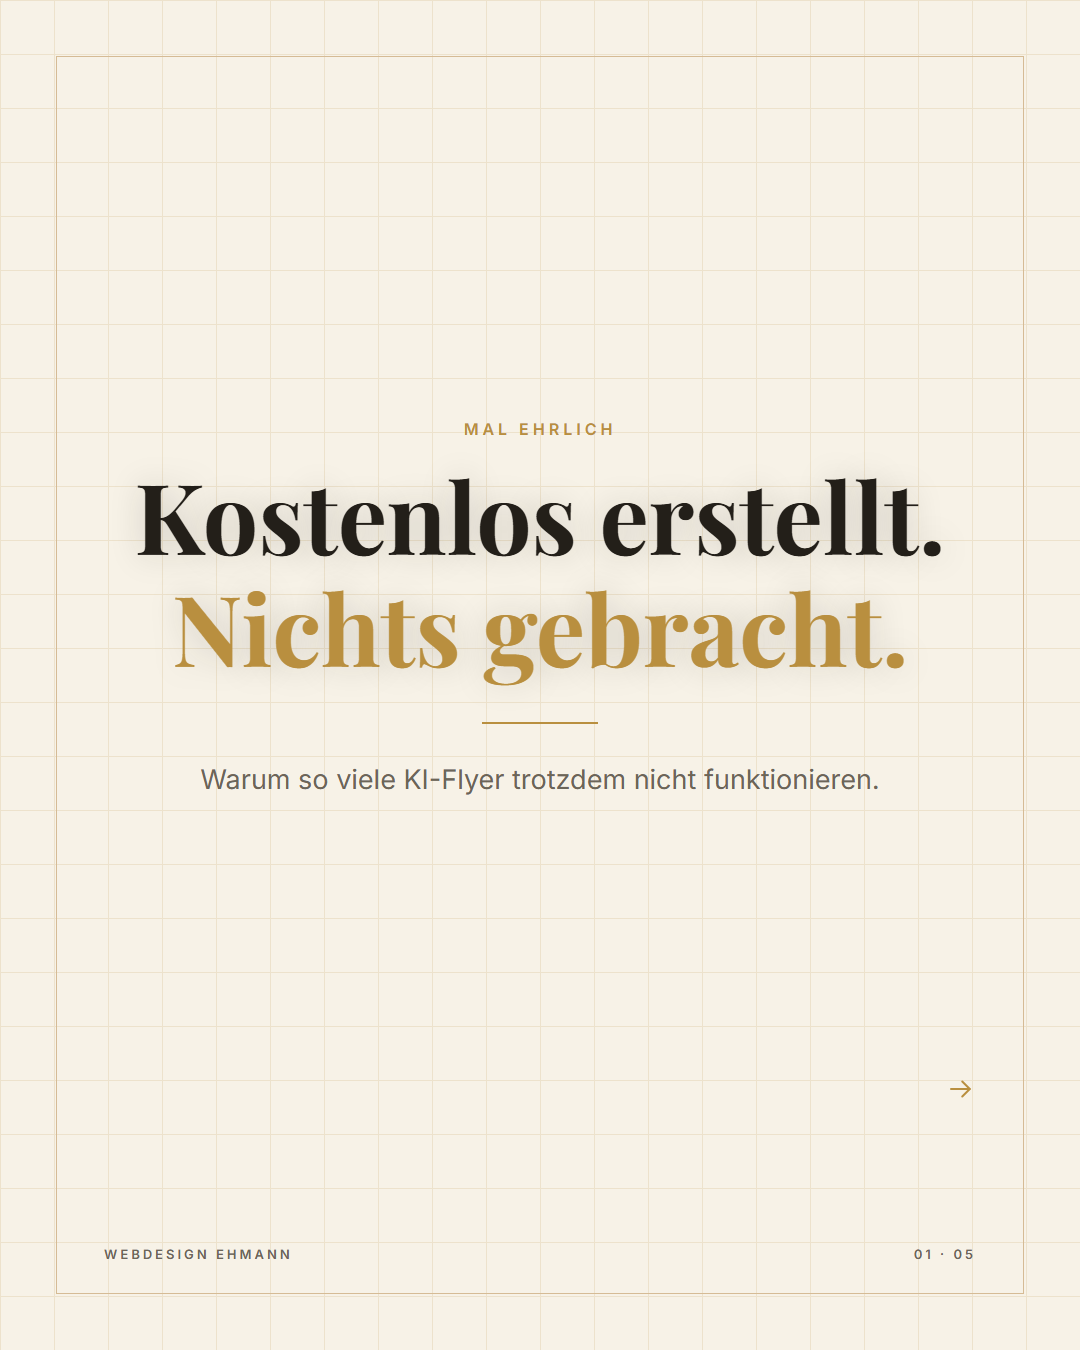
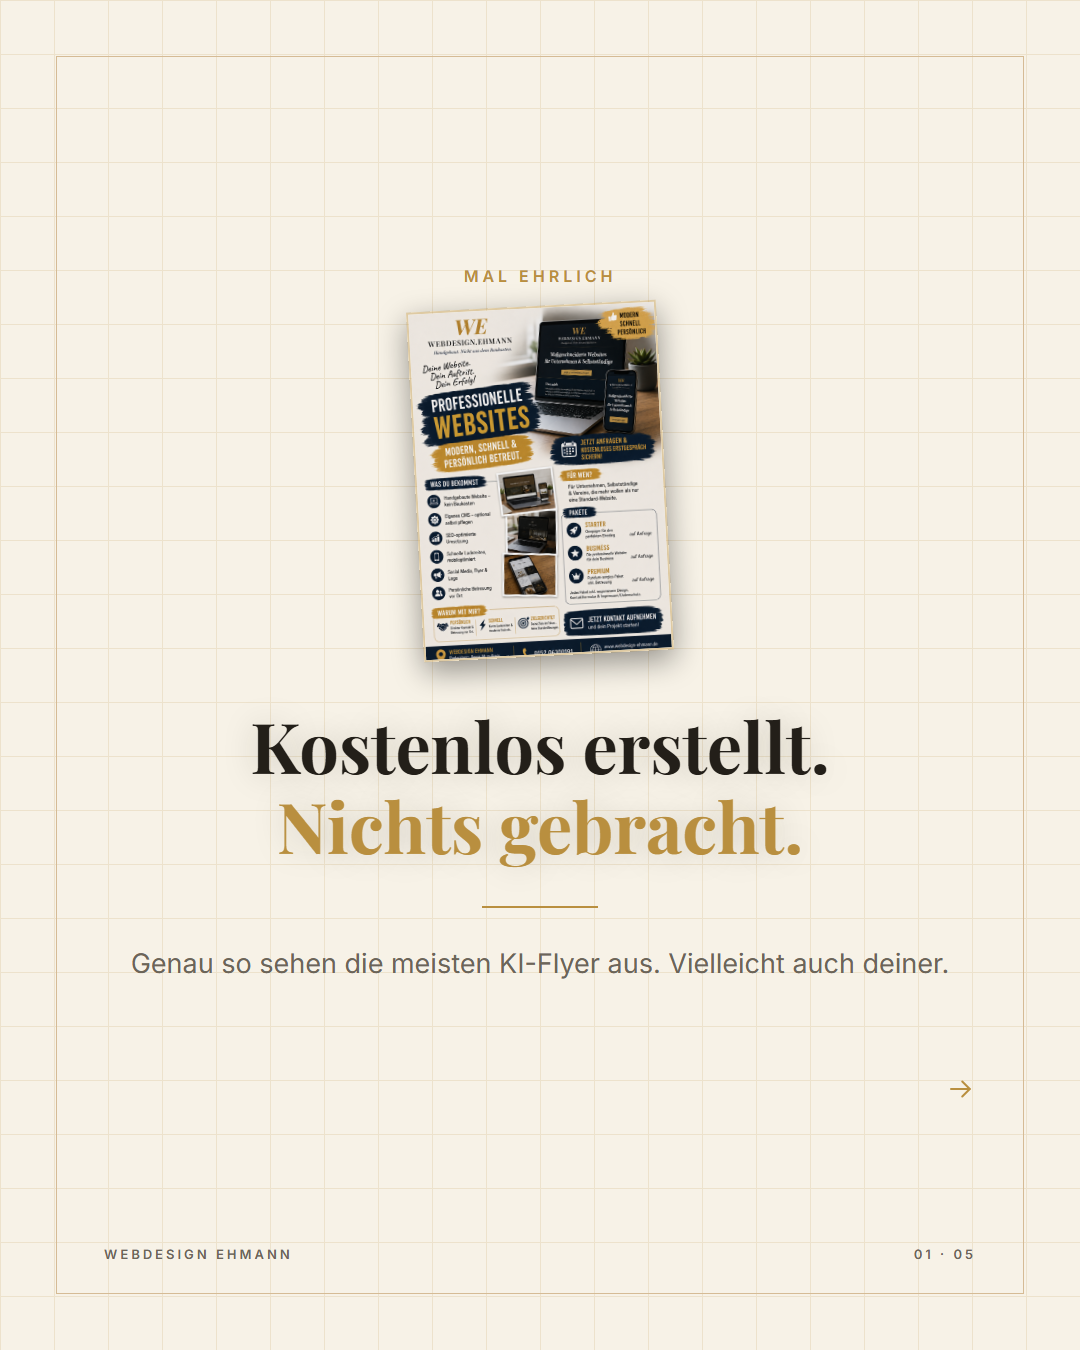
KI Flyer Vergleich: ALT-Flyer als Hook-Foto auf Slide 1, größere Vergleichskarten auf Slide 3
Slide 1 zeigt den echten AI-Flyer jetzt direkt oben als gekipptes
Beweisfoto statt nur als Text-Cover — soll genau die Leute abholen,
die selbst KI-Flyer bauen, mit direkterem Subtext. Slide 3: ALT/NEU-
Karten deutlich größer (370x490 statt 300x420) mit farbigem Rahmen
(NEU in Gold), damit der Vergleich mehr auffällt.

diff --git a/assets/marketing/instagram-posts/_build/build.js b/assets/marketing/instagram-posts/_build/build.js
@@ -163,11 +163,11 @@ function flyerCardBad() {
   </div>`;
 }
 
-function flyerCardImage(dataUri) {
-  const W = 300;
-  const H = 420;
+function flyerCardImage(dataUri, { w = 300, h = 420, borderColor = null, rotate = 0 } = {}) {
+  const border = borderColor ? `border:2px solid ${borderColor}; box-sizing:border-box;` : "";
+  const transform = rotate ? `transform:rotate(${rotate}deg);` : "";
   return `
-  <div style="width:${W}px; height:${H}px; overflow:hidden; box-shadow:0 8px 26px rgba(0,0,0,0.35);">
+  <div style="width:${w}px; height:${h}px; overflow:hidden; box-shadow:0 10px 30px rgba(0,0,0,0.4); ${border} ${transform}">
     <img src="${dataUri}" style="width:100%; height:100%; object-fit:cover; object-position:top center; display:block;">
   </div>`;
 }
@@ -193,6 +193,20 @@ function renderBody(slide, t) {
     return `
     <div class="${cls}">
       <div class="kicker center">${slide.kicker}</div>
+      <h1 class="headline center" style="font-size:${size}px;">${toHtml(slide.headline)}</h1>
+      <div class="divider"></div>
+      <p class="subtext center">${slide.subtext}</p>
+    </div>`;
+  }
+
+  if (slide.kind === "cover-photo") {
+    const n = lineCount(slide.headline);
+    const size = n <= 1 ? 84 : n === 2 ? 70 : 58;
+    const photo = flyerCardImage(imgDataUri(slide.photo), { w: 250, h: 350, borderColor: t.cardBorder, rotate: -3 });
+    return `
+    <div class="content content-center content-center-photo">
+      <div class="kicker center">${slide.kicker}</div>
+      <div class="photo-prop">${photo}</div>
       <h1 class="headline center" style="font-size:${size}px;">${toHtml(slide.headline)}</h1>
       <div class="divider"></div>
       <p class="subtext center">${slide.subtext}</p>
@@ -235,8 +249,12 @@ function renderBody(slide, t) {
 
   if (slide.kind === "flyer-compare") {
     const size = headlineSize(slide.headline, false);
-    const beforeCard = slide.beforeImage ? flyerCardImage(imgDataUri(slide.beforeImage)) : flyerCardBad();
-    const afterCard = slide.afterImage ? flyerCardImage(imgDataUri(slide.afterImage)) : flyerCardGood(t);
+    const beforeCard = slide.beforeImage
+      ? flyerCardImage(imgDataUri(slide.beforeImage), { w: 370, h: 490, borderColor: t.mutedStrong })
+      : flyerCardBad();
+    const afterCard = slide.afterImage
+      ? flyerCardImage(imgDataUri(slide.afterImage), { w: 370, h: 490, borderColor: t.accent })
+      : flyerCardGood(t);
     return `
     <div class="content content-left">
       ${iconBadge(t, slide.icon)}
@@ -399,6 +417,11 @@ html, body {
   top: 150px; bottom: 280px;
   display: flex; flex-direction: column; justify-content: center;
 }
+.content-center-photo {
+  top: 110px; bottom: 210px;
+  display: flex; flex-direction: column; align-items: center; justify-content: center;
+}
+.photo-prop { margin: 20px 0 30px; }
 .content-left { top: 340px; text-align: left; }
 .kicker {
   font-family: 'Inter', sans-serif;

diff --git a/assets/marketing/instagram-posts/_build/content.js b/assets/marketing/instagram-posts/_build/content.js
@@ -2,6 +2,8 @@
 // Jede Slide hat ein "kind":
 //   cover           – NUR Slide 1: zentriert, große Headline, Divider, Subtext
 //                      (optional: big:true = vertikal mittig, noch größere Headline — Eyecatcher-Variante)
+//   cover-photo     – NUR Slide 1: wie cover, aber mit gekipptem Foto-Beweisstück
+//                      über der Headline (Hook-Bild ganz am Anfang, z.B. echter Screenshot)
 //   hero-left       – Icon-Badge, Kicker, große Headline, Subtext — alles linksbündig
 //   reason          – Icon-Badge, Kicker, Subheadline, große Zahl, fette Kernaussage,
 //                      Fließtext, optionale Quellenangabe — linksbündig (Modell: „Tipp Baukasten“)
@@ -280,11 +282,11 @@ const POSTS = [
     folder: "KI Flyer Vergleich",
     slides: [
       {
-        kind: "cover",
-        big: true,
+        kind: "cover-photo",
         kicker: "MAL EHRLICH",
+        photo: "compare/alt-flyer.png",
         headline: ["Kostenlos erstellt.", "<span class=\"accent\">Nichts gebracht.</span>"],
-        subtext: "Warum so viele KI-Flyer trotzdem nicht funktionieren.",
+        subtext: "Genau so sehen die meisten KI-Flyer aus. Vielleicht auch deiner.",
       },
       {
         kind: "hero-left",
